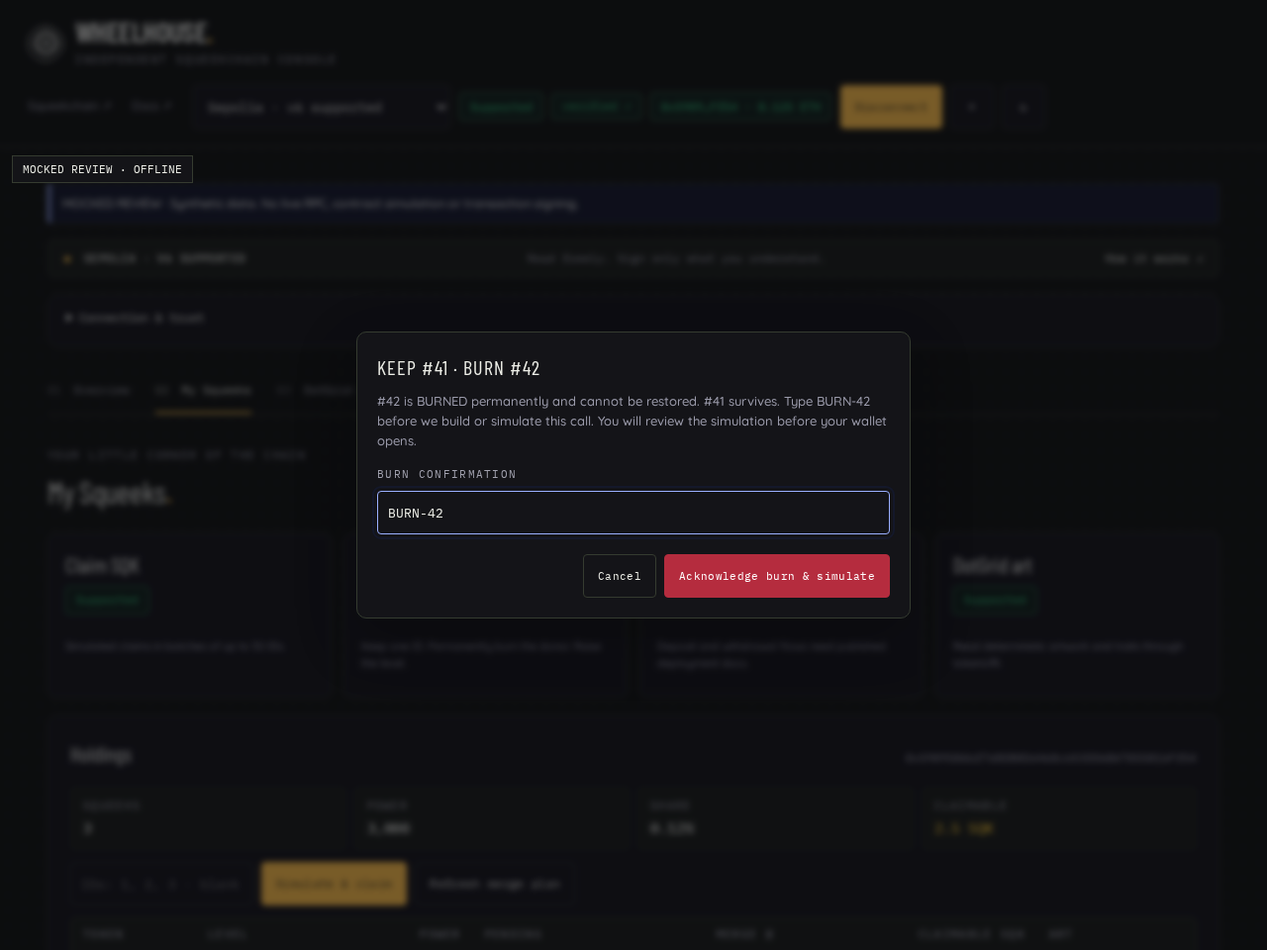
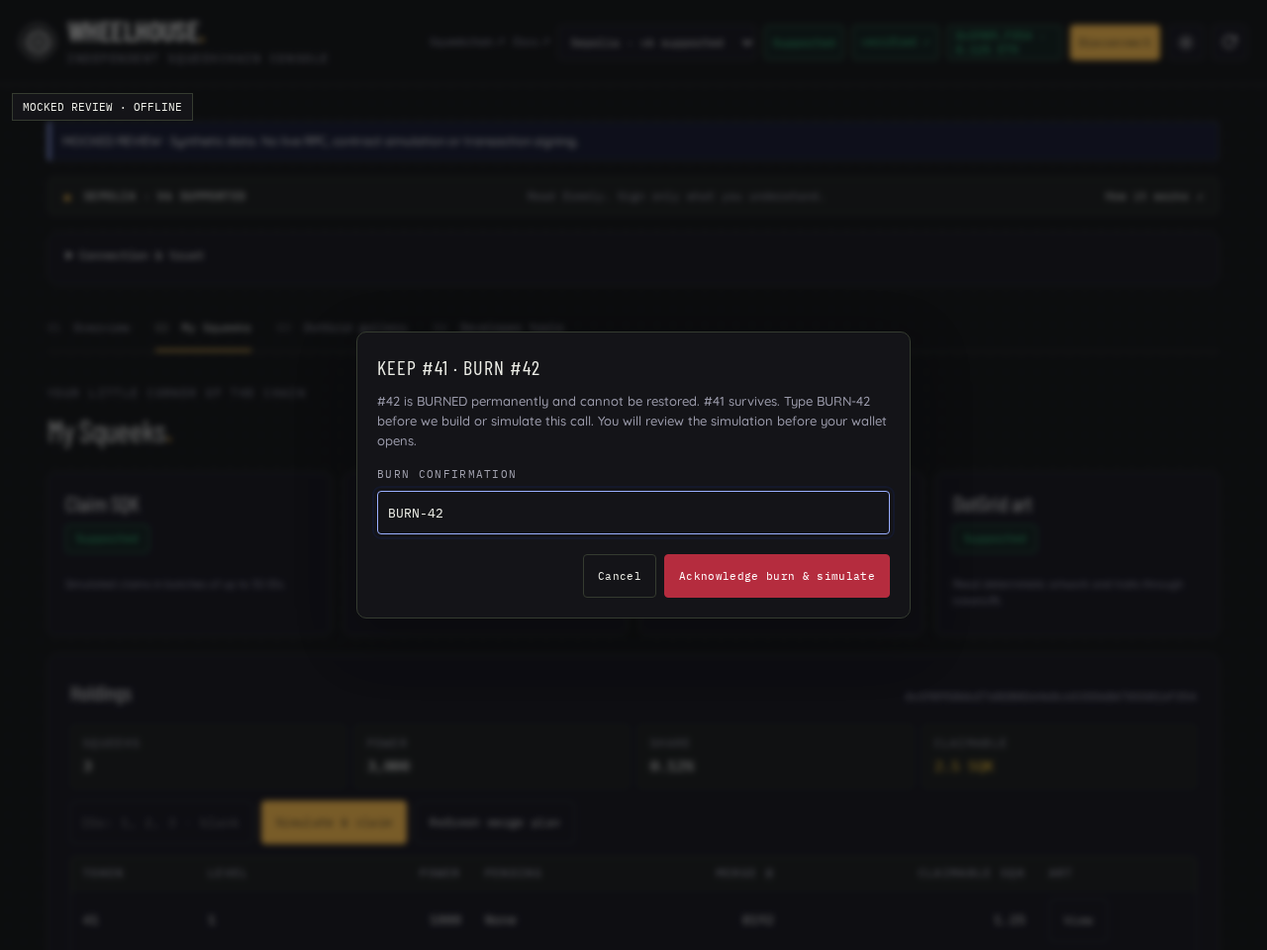
Polish compact header controls and wallet states

diff --git a/web/styles.css b/web/styles.css
@@ -522,3 +522,52 @@ footer > p.label { font-size: var(--sqk-caption-size); letter-spacing: .03em; }
   table[data-component="Table"] td:first-child { grid-column: 1 / -1; font-size: 20px; background: var(--sqk-bg-raised); }
   table[data-component="Table"] tbody tr:hover { background: var(--sqk-panel-alt); }
 }
+
+/* Header-only compact controls. Owner-action and dialog controls remain 44px. */
+.topbar { --header-size: 36px; gap: 16px; }
+.topbar .toolbar, .topbar .header-links, .topbar .header-badges,
+.topbar .wallet-controls, .topbar .wallet-control { gap: 8px; }
+.topbar :is(select, .chip, .btn) {
+  height: var(--header-size); min-height: var(--header-size);
+  border-radius: var(--sqk-r-ctrl); font-size: 11px; line-height: 14px;
+  padding: 2px 8px; vertical-align: middle;
+}
+.topbar .chip { align-items: center; display: inline-flex; white-space: normal; }
+.topbar #btn-theme, .topbar #btn-refresh {
+  width: var(--header-size); min-width: var(--header-size); height: var(--header-size);
+  padding: 0; font: 18px/1 var(--sqk-font-voice); flex-shrink: 0;
+}
+.topbar .header-link { margin-right: 0; font-size: 11px; }
+@media (min-width: 900px) {
+  .topbar { flex-wrap: nowrap; padding: 16px max(20px, calc((100vw - 1240px) / 2)); }
+  .topbar .brand { flex-shrink: 0; }
+  .topbar .toolbar { margin-left: auto; justify-content: flex-end; flex-wrap: nowrap; min-width: 0; }
+  .topbar .header-links { display: flex; flex-shrink: 0; }
+  .topbar .header-link { display: inline-flex; align-items: center; height: 36px; white-space: nowrap; }
+  .topbar #profile-select { width: 200px; max-width: 200px; min-width: 120px; flex: 0 1 200px; }
+  .topbar .header-badges { flex-wrap: nowrap; flex-shrink: 1; }
+  .topbar #profile-status, .topbar #verified-chip { flex-shrink: 0; max-width: 116px; }
+  .topbar #wallet-chip { flex: 0 0 116px; max-width: 116px; overflow-wrap: anywhere; }
+  .topbar .wallet-controls, .topbar .wallet-control { flex-shrink: 0; }
+}
+@media (min-width: 900px) and (max-width: 1199px) {
+  .topbar { padding: 12px 16px; gap: 12px; }
+  .topbar .brand { gap: 8px; }
+  .topbar .brand-name { font-size: 24px; }
+  .topbar .brand .label { display: none; }
+  .topbar .mark { width: 28px; height: 28px; }
+  .topbar .mark svg { width: 23px; height: 23px; }
+  .topbar #profile-select { width: 128px; max-width: 128px; min-width: 112px; flex-basis: 128px; }
+  .topbar .chip { padding-inline: 6px; }
+  .topbar #wallet-chip { flex-basis: 100px; max-width: 100px; }
+  .topbar #profile-status { max-width: 104px; }
+  .topbar #verified-chip { max-width: 104px; }
+  .topbar #btn-connect { max-width: 80px; }
+}
+@media (max-width: 760px) {
+  .topbar { gap: 12px; }
+  .topbar .header-badges { grid-template-columns: auto auto minmax(0, 1fr); }
+  .topbar .wallet-controls { grid-template-columns: minmax(0, 1fr) 36px 36px; }
+  .topbar .wallet-controls:has(#btn-refresh.hidden) { grid-template-columns: minmax(0, 1fr) 36px; }
+  .topbar #wallet-chip { overflow-wrap: anywhere; }
+}

diff --git a/web/app.js b/web/app.js
@@ -145,7 +145,14 @@ export function mount({ doc = document, win = window, adapterFactory, fetcher = 
   function applyTheme(theme) {
     theme = theme === "dark" ? "dark" : "light";
     doc.documentElement.dataset.theme = theme;
-    el.theme.textContent = theme === "dark" ? "☀" : "☾";
+    // Authored UI icon, not untrusted artwork/metadata SVG.
+    const icon = doc.createElementNS('http://www.w3.org/2000/svg', 'svg');
+    for (const [key, value] of Object.entries({ width: 18, height: 18, viewBox: '0 0 24 24', fill: 'none', stroke: 'currentColor', 'stroke-width': 1.8, 'stroke-linecap': 'round', 'stroke-linejoin': 'round', 'aria-hidden': true, focusable: false })) icon.setAttribute(key, value);
+    const path = doc.createElementNS('http://www.w3.org/2000/svg', 'path');
+    path.setAttribute('d', theme === 'dark'
+      ? 'M16 12a4 4 0 1 1-8 0 4 4 0 0 1 8 0ZM12 2v2m0 16v2M2 12h2m16 0h2M4.9 4.9l1.4 1.4m11.4 11.4 1.4 1.4M4.9 19.1l1.4-1.4M17.7 6.3l1.4-1.4'
+      : 'M20.9 13A9 9 0 0 1 11 3.1 9 9 0 1 0 20.9 13Z');
+    icon.append(path); el.theme.replaceChildren(icon);
     el.theme.setAttribute("aria-pressed", String(theme === "dark"));
     el.theme.title = theme === "dark" ? "Switch to light theme" : "Switch to dark theme";
     const surface = win.getComputedStyle?.(doc.documentElement)?.getPropertyValue("--sqk-bg").trim();
@@ -422,8 +429,8 @@ export function mount({ doc = document, win = window, adapterFactory, fetcher = 
 
   function renderWalletChip() {
     el.connect.textContent = state.account ? "Disconnect" : "Connect wallet";
-    el.walletChip.textContent = state.account ? short(state.account) : "not connected";
-    el.walletChip.className = `chip ${state.account ? "ok" : ""}`;
+    el.walletChip.textContent = state.account ? short(state.account) : "";
+    el.walletChip.className = `chip ${state.account ? "ok" : "hidden"}`;
     el.walletChip.title = state.account ?? "";
   }
 
@@ -502,7 +509,7 @@ export function mount({ doc = document, win = window, adapterFactory, fetcher = 
   }
 
   function renderWalletChipStats(status) {
-    if (!status) return;
+    if (!status || !state.account) return;
     el.walletChip.textContent = `${short(status.owner)} · ${num(status.ethBalance?.eth) === UNKNOWN ? UNKNOWN : `${Number(status.ethBalance.eth).toFixed(3)} ETH`}`;
   }
 

diff --git a/web/index.html b/web/index.html
@@ -32,11 +32,11 @@
         <select aria-label="Network deployment" id="profile-select" title="Deployment"></select>
         <div class="header-badges"><span class="chip ok" id="profile-status" role="status" aria-live="polite">Supported</span>
         <span class="chip" id="verified-chip" role="status" aria-live="polite">verifying…</span>
-        <span class="chip" id="wallet-chip">not connected</span></div>
+        <span class="chip hidden" id="wallet-chip"></span></div>
         <div class="wallet-controls"><div class="wallet-control">
         <button class="btn btn-primary" id="btn-connect">Connect wallet</button></div>
-        <button class="btn icon" id="btn-theme" type="button" title="Switch to dark theme" aria-label="Toggle theme" aria-pressed="false">☾</button>
-        <button class="btn icon" id="btn-refresh" type="button" title="Refresh" aria-label="Refresh">↻</button></div>
+        <button class="btn icon" id="btn-theme" type="button" title="Switch to dark theme" aria-label="Toggle theme" aria-pressed="false"><svg width="18" height="18" viewBox="0 0 24 24" fill="none" stroke="currentColor" stroke-width="1.8" stroke-linecap="round" stroke-linejoin="round" aria-hidden="true" focusable="false"><path d="M20.9 13A9 9 0 0 1 11 3.1 9 9 0 1 0 20.9 13Z" /></svg></button>
+        <button class="btn icon" id="btn-refresh" type="button" title="Refresh" aria-label="Refresh"><svg width="18" height="18" viewBox="0 0 24 24" fill="none" stroke="currentColor" stroke-width="1.8" stroke-linecap="round" stroke-linejoin="round" aria-hidden="true" focusable="false"><path d="M20 11a8 8 0 1 1-2.3-5.7L21 8M21 3v5h-5" /></svg></button></div>
       </div>
     </header>
 

diff --git a/docs/STATUS.md b/docs/STATUS.md
@@ -1,22 +1,22 @@
-# Wheelhouse — Phase 1 ready for review
+# Wheelhouse — header-polish follow-up ready for draft review
 
-**Date:** 2026-11-03 (Asia/Calcutta). **PR:** #2, open/draft. **Branch:** `arena/314fd2af-squeekchain-console`. App rebrand approved; repository name unchanged.
+**Date:** 2026-11-03 (Asia/Calcutta). **Base:** PR #2 merged at `22263e775461101b7d1dcb24933edd2ccd5a281f`. **Follow-up branch:** `arena/417b8688-squeekchain-console` (separate draft against main). App rebrand approved; repository name unchanged.
 
 ## Phase plan and pre-merge qualification gate
 
 **Phase 0: complete.** The opted-in **thewheel** live gate [run **41618128325**](https://github.com/CryptoExplor/Squeekchain-console/actions/runs/41618128325) passed on **`dd0afff7a88250d5d8aca88427ffe449c9e387c4`**. GitHub metadata independently confirms the exact head SHA, successful live-read step, public RPC probe, Chromium setup and artifact upload. [Qualification evidence](audit/live-qualification-run-41618128325.json) records the run, job and artifact IDs. Artifact contents were not downloaded; no specific block/hash/latency metrics are claimed.
 
-This qualifies **dd0afff**, not the subsequent screenshot-polish head. The user will rerun `run-live` on the new head before merge. **PR #2 remains open/draft**; manual browser review and final-head qualification are not waived.
+This qualifies **dd0afff**, not the new header-polish head. Before PR #2 merged, [run 41650460910](https://github.com/CryptoExplor/Squeekchain-console/actions/runs/41650460910) also passed on its final source `b26f7f94fb0c28601408f4fade93f87bc2f84b1f`. Neither historical pass qualifies this follow-up; manual browser review and final-head qualification are not waived.
 
-**Phase 1 implementation is ready for review on the same branch and PR #2**: Wheelhouse branding, the light design system and safety fixes. Preserve the existing architecture and every approved safety rule; do not restart or create another phase PR.
+**Phase 1 merged via PR #2.** The user requested a separate header-polish draft against main. Preserve the existing architecture and every approved safety rule; no restart or direct-main push.
 
 | Phase 1 work | Current status |
 |---|---|
 | First task — browser RPC availability/fallback and diagnostics | Implemented in `c128c83d4171bece61d0226f0690abb366110c2f`; offline Node and bundled Chromium regressions pass. Typed cooldown/transport errors fail over, including browser fetch/CORS-style TypeErrors; cause traversal retains trust hard stops. Tool errors expose redacted endpoint, method and cause diagnostics. This is not a verified diagnosis of run `41606508624`. |
-| Wheelhouse branding and light design system | Continued with a consolidated neutral/gold/blue token palette, independent-console wordmark subtitle, readable 11px operational captions, semantic primary/danger controls, accessible theme state and matching browser chrome colors. Twenty-five mocked Chromium checks pass, including the 16-state review gallery, light/dark component contrast and focus; final human browser review is pending. See [design contract](DESIGN.md). |
+| Wheelhouse branding and light design system | Continued with a consolidated neutral/gold/blue token palette, independent-console wordmark subtitle, readable 11px operational captions, semantic primary/danger controls, accessible theme state and matching browser chrome colors. Thirty-five mocked Chromium checks pass, including the 24-state review gallery, light/dark component contrast and focus; final human browser review is pending. See [design contract](DESIGN.md). |
 | Approved safety fixes | Existing capability gates, same-block graph/two-peer verification, explicit BURN confirmation, fresh simulation and wallet-only signing, profile cancellation/isolation, persistent Activity, API hint validation and key isolation remain unchanged. |
 
-**After this review polish**, the user will re-trigger `run-live` for the intended final PR head and manually check the app in their browser before merge. The pre-merge live gate must pass; offline tests, SDK probes and manual review do not substitute for that gate. The agent will not retry `test:live` in the sandbox or apply the label. PR #2 remains open/draft/WIP. After each push, report the commit, changes and offline results.
+**After this review polish**, the user will re-trigger `run-live` for the intended final PR head and manually check the app in their browser before merge. The pre-merge live gate must pass; offline tests, SDK probes and manual review do not substitute for that gate. The agent will not retry `test:live` in the sandbox or apply the label. The header follow-up remains draft; PR #2 is already merged. After each push, report the commit, changes and offline results.
 
 ### Historical live evidence (not qualification)
 
@@ -24,24 +24,31 @@ The historical real-browser `npm run test:live` check was attempted once after t
 
 Evidence: [`audit/live-qualification-2026-11-02.json`](audit/live-qualification-2026-11-02.json). The earlier local-run plan is now superseded by the explicit-opt-in **thewheel** CI gate below. The successful dd0afff CI run above now completes Phase 0. Retain its qualification artifacts; a later head requires its own pre-merge rerun. The historical jsdom smoke failure is not retried here. Public RPC availability is not a Phase 1 blocker.
 
+## Header-only follow-up
+
+- Disconnected wallet chip hidden; connected address/balance retained.
+- All header controls/badges are 36px with shared radius, 11px/14px text and 8px gaps. Body action/dialog controls remain 44px. Theme/refresh are 36×36px, with 18px authored SVGs and existing labels/focus rings.
+- Desktop ≥900px keeps brand left and controls right on one row, with Squeekchain/Docs links before the select. Mobile 390px stays stacked. Supported and verified remain separate. Tests cover 900/1024px connected/disconnected and read-only/unverified badge clipping.
+- No SDK, trust, capability, signing, simulation or keeper change; no live workflow dispatch/label operation.
+
 ## Screenshot review polish
 
-- At 390px the profile select is full width, the badges share one row, and wallet/theme/refresh controls share an aligned row; theme/refresh retain 44px icon buttons and accessible labels. The layout also passes the existing 320px overflow checks.
+- At 390px the profile select is full width, the badges share one row, and wallet/theme/refresh controls share an aligned row; theme/refresh use 36px icon buttons with 18px SVGs and accessible labels. The layout also passes the existing 320px overflow checks.
 - The hero and introductory eyebrow appear only on Overview. Task tabs and the not-deployed Mainnet view do not repeat the hero. Hero paragraph copy wraps naturally, without hard `<br>` elements.
 - Below 600px, each holdings row becomes a labelled token card: all seven cells remain visible without horizontal clipping. Desktop keeps the table with scoped headers and explicit table/row/cell semantics.
 - Mainnet has one Not deployed badge and one deployment-status panel; the redundant verification badge, network strip, hero and repeated banner are hidden. The separate prior-wallet-request warning is retained when applicable; no action capability changes.
-- The screenshot-only MOCKED REVIEW ribbon is placed below the header, not over the wordmark. All 16 light/dark desktop/mobile screenshots are regenerated with geometry, card-cell visibility, one-badge/one-panel and hero-visibility assertions.
+- The screenshot-only MOCKED REVIEW ribbon is placed below the header, not over the wordmark. All 16 light/dark desktop/mobile screenshots plus eight connected/disconnected header crops are regenerated with geometry, card-cell visibility, one-badge/one-panel and hero-visibility assertions.
 
 ## Phase 1 finish checklist
 
 - **Shared components:** `web/components.js` exports Panel, Stat, Table, TokenCard, ConfirmDialog, Toast and Skeleton. Existing static markup is enhanced in place; no framework, backend or new authority over capabilities. Panel busy state preserves known readings; Skeleton visibly retains Unknown and respects reduced motion. Tables have captions/scoped headers; TokenCard is a keyboard-operable button and renders artwork as an isolated image. The shared dialog preserves the existing focus trap/restore/cancellation lifecycle and Merge's typed BURN-<id> before call construction/simulation, then review/fresh simulation/wallet signing.
 - **Unknown, never invented zero:** absent/nonfinite/unavailable values display literal **Unknown** in network, wallet, table and telemetry views. Known zero is still a valid reading. A missing paused flag is not shown as “no.” v6 Power and v9 Deposited are distinct fields, not a fallback pretending an absent power value is zero. Failed wallet refresh clears stale holdings/actions.
 - **Shell:** Wheelhouse wordmark in header/footer, profile select with separate Supported / Read-only · unverified / Not deployed badge, light-default saved theme toggle, and explicit **independent community console · not affiliated with Squeekchain** footer. Live verification status remains separate from profile support status.
-- **Review gallery:** [16 committed mocked Chromium screenshots](screenshots/README.md): light/dark × 1280px/390px × Overview/Wallet/Merge dialog/Mainnet-not-deployed. Every capture uses synthetic fixtures; no live qualification, contract simulation, signing or real wallet submission. The PR description links the gallery and individual images. Regenerate only with explicit `UPDATE_SCREENSHOTS=1 npm run test:browser`; ordinary CI saves captures to ignored test output.
-- **JavaScript size:** **146,982 gzip bytes (147.0 kB / 143.5 KiB)**, summed across all five independently gzipped dist JS files using Node's default gzip level. Under the **200,000-byte** budget, now checked at build time. [Per-file report](audit/phase1-js-size.json); `dist/` remains ignored.
-- **Final offline validation:** all **11** `npm test` scripts, build/static parity/size budget, all **25** mocked Chromium tests, and `git diff --check` pass. Wire request budgets remain **22 cold / 12 warm / 15 wallet**.
+- **Review gallery:** [24 committed mocked Chromium screenshots](screenshots/README.md): light/dark × 1280px/390px × Overview/Wallet/Merge dialog/Mainnet-not-deployed, plus connected/disconnected header crops. Every capture uses synthetic fixtures; no live qualification, contract simulation, signing or real wallet submission. The PR description links the gallery and individual images. Regenerate only with explicit `UPDATE_SCREENSHOTS=1 npm run test:browser`; ordinary CI saves captures to ignored test output.
+- **JavaScript size:** **147,359 gzip bytes (147.4 kB / 143.9 KiB)**, summed across all five independently gzipped dist JS files using Node's default gzip level. Under the **200,000-byte** budget, now checked at build time. [Per-file report](audit/phase1-js-size.json); `dist/` remains ignored.
+- **Final offline validation:** all **11** `npm test` scripts, build/static parity/size budget, all **35** mocked Chromium tests, and `git diff --check` pass. Wire request budgets remain **22 cold / 12 warm / 15 wallet**.
 
-**Phase 1 ready for review**, not approval to merge. PR #2 remains open/draft. All approved safety rules and the opt-in live workflow are unchanged. No sandbox `test:live`, label operation, keeper activation or transaction submission was performed. User-triggered live qualification at the intended final head and manual browser review are still required before merge; Phase 0 is complete based on the qualified dd0afff head.
+**Header follow-up ready for draft review**, not approval to merge. PR #2 is already merged. All approved safety rules and the opt-in live workflow are unchanged. No sandbox `test:live`, label operation, keeper activation or transaction submission was performed. User-triggered live qualification at the intended final head and manual browser review are still required before merge; Phase 0 is complete based on the qualified dd0afff head.
 
 ## Public RPC availability follow-up
 
@@ -53,7 +60,7 @@ Public endpoints change often; configured roles are availability preferences, no
 - Run **`npm run rpc:probe`** locally for a per-endpoint table: chain ID, a head-minus-12 block/hash, the mining EIP-1967 implementation slot at that block, and an inclusive 10k-block NFT Transfer log query. Requests time out after 15 seconds. Each capability reports independently; a log failure does not disqualify an otherwise healthy snapshot/state peer. This Node diagnostic does not test browser CORS, peer agreement or the full graph and is **not Phase 0 qualification**.
 - Offline regression coverage uses the reported `4444: pruned history unavailable`, `historical state unavailable`, `range too large`, `35: chain is not available on free plan` and `forbidden` payloads; asserts unchanged-range endpoint failover before chunk shrinking, custom/wallet behavior and trust-stop behavior.
 
-**The replacement RPC list passed the real-browser gate on dd0afff in run 41618128325.** The screenshot-polish head still needs the user-triggered rerun before merge. The old failed evidence is retained, not relabeled as a pass.
+**The replacement RPC list passed the real-browser gate on dd0afff in run 41618128325.** The new header-polish head needs its own user-triggered rerun before merge. The old failed evidence is retained, not relabeled as a pass.
 
 ## User-reported partial live results and follow-ups
 
@@ -72,7 +79,7 @@ The v6 panel now displays its live settlement frontier and a snapshot-scoped no-
 
 README documents the linux-arm64 Chromium CDN 403 workaround: use x64 or an already-installed supported local Chrome via **`PLAYWRIGHT_CHROMIUM_CHANNEL=chrome npm run test:live`** (`channel: 'chrome'`), or the existing executable-path override. The Chrome-channel config is provided; local Chrome itself was not available/tested in this sandbox.
 
-**Phase 0 is complete: offline audit plus live qualification on dd0afff in run 41618128325.** PR #2 stays open/draft during screenshot-review polish and the new-head rerun.
+**Phase 0 is complete: offline audit plus live qualification on dd0afff in run 41618128325.** PR #2 is merged; the separate header follow-up stays draft pending review and its own final-head rerun.
 
 ## Opt-in CI live gate (passed on dd0afff; user re-triggers for the polish head)
 
@@ -80,7 +87,7 @@ Added **thewheel** (`.github/workflows/live.yml`), triggered by **`workflow_disp
 
 No sandbox `test:live` retry was performed for this change. Its last blocked attempt is preserved in [`audit/live-qualification-2026-11-03.json`](audit/live-qualification-2026-11-03.json); the earlier user-reported SDK verification passed at block **12050470** in **1.6 seconds**, frontier **1973**, but did not include a full Playwright live-suite pass. The later successful CI run 41618128325 supplies that qualification.
 
-The workflow can now run directly from **PR #2 by adding `run-live`**; no default-branch bootstrap or WIP merge is required for that trigger. `actions/checkout` pins `github.event.pull_request.head.sha` on PR events (selected event SHA on dispatch). Both the initial JSON and live reporter use **`LIVE_SOURCE_COMMIT`** set to that exact head SHA, not the PR merge-commit `GITHUB_SHA`. If the explicit source variable is absent, the reporter uses checked-out HEAD (or unknown if Git is unavailable), never the synthetic merge-commit `GITHUB_SHA`. Read-only permissions and concurrency group **`thewheel-live-sepolia`** are unchanged; **no `pull_request_target`** or secrets are used.
+The workflow can run directly from **the follow-up PR by adding `run-live`**; no default-branch bootstrap or WIP merge is required for that trigger. `actions/checkout` pins `github.event.pull_request.head.sha` on PR events (selected event SHA on dispatch). Both the initial JSON and live reporter use **`LIVE_SOURCE_COMMIT`** set to that exact head SHA, not the PR merge-commit `GITHUB_SHA`. If the explicit source variable is absent, the reporter uses checked-out HEAD (or unknown if Git is unavailable), never the synthetic merge-commit `GITHUB_SHA`. Read-only permissions and concurrency group **`thewheel-live-sepolia`** are unchanged; **no `pull_request_target`** or secrets are used.
 
 The user triggered the successful dd0afff run and will remove/re-add the label for the polish head; the agent has not labeled/dispatched or rerun live tests. **Qualification passed for dd0afff, and the intended final PR head must be requalified before merge**; a skipped job is not qualification. No automatic phase transition is performed by the workflow. Actions-tab `workflow_dispatch` remains available only once the workflow exists on the default branch.
 
@@ -100,7 +107,7 @@ The live assertions remain unchanged; the unmocked test now passively attaches *
 
 Only known fetch-failure TypeError messages (`Failed to fetch`, `Load failed`, `NetworkError when attempting to fetch resource.`, Node `fetch failed`, or `Network request failed`) qualify as transport availability. Other TypeErrors, including `Cannot read properties of undefined`, stop immediately through nested viem/HTTP/availability wrappers; they cannot trigger peer fallback, chain-ID re-probes or log-range shrinking. Snapshot peer selection and wallet probes also preserve this stop. Diagnostics label these as possible programming errors, not CORS failures, without serializing arbitrary provider messages.
 
-The offline first-endpoint regression injects the exact programming TypeError through the real viem HTTP transport, verifies the original cause survives, and asserts no next endpoint or identity re-probe is called. Existing cooldown and recognized fetch-failure fallback tests remain in place. Live qualification subsequently passed on dd0afff; manual review and a live rerun for the new polish head remain pre-merge requirements.
+The offline first-endpoint regression injects the exact programming TypeError through the real viem HTTP transport, verifies the original cause survives, and asserts no next endpoint or identity re-probe is called. Existing cooldown and recognized fetch-failure fallback tests remain in place. Live qualification subsequently passed on dd0afff; manual review and a live rerun for the new header-polish head remain pre-merge requirements.
 
 ## Implemented in place
 
@@ -119,10 +126,10 @@ The offline first-endpoint regression injects the exact programming TypeError th
 ## Validation
 
 - `npm test`: passes UI/telemetry/modal regressions, published-record characterization/local ABI parity, stdio tool listing, same-block identity mismatch cases, role-based RPC availability/failover/backoff and probe checks, paginated API hint isolation and onchain confirmation, actual wire request budgets, chain/cache invalidation, IndexedDB filtered/incremental/reorg discovery and Activity persistence/reverts/unavailability.
-- `npm run test:browser`: **25 passing mocked Chromium tests**: light/saved theme and responsive layout; pending-RPC switch; three rapid switches; pending-simulation switch; late broadcast persistence/receipt tracking across a switch and reload; live-derived v6 frontier messaging/advancement/failure/switch/mobile behavior; bundled browser-wire state cooldown/TypeError failover; light/dark component contrast, readable captions, theme metadata/state and focus; 16 screenshot states; TokenCard keyboard/isolated-image/dialog focus behavior. RPC/adapters are mocked in this suite; it is not live qualification.
+- `npm run test:browser`: **35 passing mocked Chromium tests**: light/saved theme and responsive layout; pending-RPC switch; three rapid switches; pending-simulation switch; late broadcast persistence/receipt tracking across a switch and reload; live-derived v6 frontier messaging/advancement/failure/switch/mobile behavior; bundled browser-wire state cooldown/TypeError failover; light/dark component contrast, readable captions, theme metadata/state and focus; 24 screenshot states and compact-desktop header regressions; TokenCard keyboard/isolated-image/dialog focus behavior. RPC/adapters are mocked in this suite; it is not live qualification.
 - `npm run build`: passes; `dist/` output parity is a build check, not tracked generated content.
 - CI includes `npx playwright install --with-deps chromium`. The sandbox used an npm-distributed Chromium with bundled system libraries because browser download hosts are restricted; that temporary package/binary is not a project dependency or committed artifact.
-- `npm run test:live`: the **historical sandbox attempt failed / was unavailable**; the full suite subsequently **passed opted-in CI run 41618128325 on dd0afff**. That is the Phase 0 evidence; the new polish head awaits its own rerun.
+- `npm run test:live`: the **historical sandbox attempt failed / was unavailable**; the full suite subsequently **passed opted-in CI run 41618128325 on dd0afff**. That is the Phase 0 evidence; the new header-polish head awaits its own rerun.
 
 ## Sources and historical evidence
 
@@ -139,4 +146,4 @@ Complete remote/local ABI byte-for-byte parity and a browser comparison with the
 
 ## Deferred / not claimed
 
-No mainnet deployment or v9 owner integration; no real signed transaction test; no closed-tab alerts, remote MCP, OG/alert Worker/D1, EIP-6963/WalletConnect integration or paid service provisioning. Official API/Genesis unavailability remains Unknown, including `launch_unconfigured`. No repository rename or PR closure. PR #2 stays WIP pending manual review and opted-in live qualification of the new polish head.
+No mainnet deployment or v9 owner integration; no real signed transaction test; no closed-tab alerts, remote MCP, OG/alert Worker/D1, EIP-6963/WalletConnect integration or paid service provisioning. Official API/Genesis unavailability remains Unknown, including `launch_unconfigured`. No repository rename or follow-up PR merge/deployment. PR #2 was merged at user request; the new header draft awaits manual review and opted-in live qualification of its intended final head.

diff --git a/README.md b/README.md
@@ -2,11 +2,11 @@
 
 A static, browser-first Squeekchain holder console. The app is branded **Wheelhouse**; the GitHub repository remains **CryptoExplor/Squeekchain-console**.
 
-**Phase 1 screenshot polish ready for review — Phase 0 complete.** [Live run 41618128325](https://github.com/CryptoExplor/Squeekchain-console/actions/runs/41618128325) passed on `dd0afff`; the new polish head awaits the user-triggered pre-merge rerun. PR #2 remains draft. Offline tests and browser layout/race tests are not proof of public RPC availability, current contract identities, or transaction success. See [status and validation](docs/STATUS.md).
+**Header-polish follow-up ready for draft review — Phase 1 merged in [PR #2](https://github.com/CryptoExplor/Squeekchain-console/pull/2).** Phase 0 remains complete from [live run 41618128325](https://github.com/CryptoExplor/Squeekchain-console/actions/runs/41618128325) on `dd0afff`. The new header head is not live-qualified. Offline tests and browser layout/race tests are not proof of public RPC availability, current contract identities, or transaction success. See [status and validation](docs/STATUS.md).
 
 The light-first Wheelhouse design uses local Barlow Condensed, Quicksand and IBM Plex Mono, warm neutral surfaces and gold/blue accents. It is an independent community console, not the official dApp. See the [design contract and offline checks](docs/DESIGN.md).
 
-[Review the 16 mocked screenshots](docs/screenshots/README.md): Overview, Wallet, Merge dialog and not-deployed Mainnet, each in light/dark at 1280px/390px. These are synthetic review fixtures, not live qualification. Shared DOM components live in `web/components.js`; missing values read **Unknown**, never an invented zero. All dist JavaScript totals **146,982 bytes gzipped**, below the build-enforced 200,000-byte budget ([breakdown](docs/audit/phase1-js-size.json)).
+[Review the 24 mocked screenshots](docs/screenshots/README.md): Overview, Wallet, Merge dialog and not-deployed Mainnet, plus connected/disconnected header crops, each in light/dark at 1280px/390px. These are synthetic review fixtures, not live qualification. Shared DOM components live in `web/components.js`; missing values read **Unknown**, never an invented zero. All dist JavaScript totals **147,359 bytes gzipped**, below the build-enforced 200,000-byte budget ([breakdown](docs/audit/phase1-js-size.json)).
 
 ## Deployments and safety
 
@@ -38,7 +38,7 @@ npm run web                    # build + local static file server, port 5173
 npm run rpc:probe              # endpoint capability table; diagnostic, not live qualification
 npm test                       # deterministic offline regressions, safety, RPC budget, discovery and Activity
 npx playwright install --with-deps chromium
-npm run test:browser            # real Chromium, injected/offline data: components, profile races, persistence, and the 16 mocked screenshot states
+npm run test:browser            # real Chromium, injected/offline data: components, profile races, persistence, and the 24 mocked screenshot states
 npm run test:live               # real Chromium + public Sepolia RPCs; no RPC mocks or signatures
 ```
 
@@ -55,11 +55,11 @@ The live test records public CORS RPC availability, two-peer block agreement and
 
 It uses read-only repository permissions and no configured secrets, wallet, keeper or signing variables. Opted-in runs are serialized under the same concurrency group to avoid hammering public RPCs. Test failures are not ignored. An always-run artifact upload retains the HTML Playwright report, screenshots/traces/test attachments and **`live-qualification/live-qualification.json`**, including failure evidence. A not-run JSON is seeded before dependency/browser setup so a later setup or probe failure is not mistaken for a pass. The dedicated live reporter rejects empty/skipped/incomplete suites as qualification passes; ordinary browser tests remain separate.
 
-**At the end of Phase 1, the user re-triggers the pre-merge gate from PR #2:** remove/re-add the **`run-live`** label and manually review the app in their browser before merge. The job checks out the event's exact **PR head SHA**, not GitHub's synthetic merge commit. `LIVE_SOURCE_COMMIT` carries that same SHA into both the initial and final qualification JSON. For `workflow_dispatch`, the checkout/evidence use the selected ref's event SHA. No `pull_request_target`, configured secrets or write permissions are used.
+**For the intended final follow-up head, the user re-triggers the pre-merge gate:** remove/re-add the **`run-live`** label and manually review the app in their browser before merge. The job checks out the event's exact **PR head SHA**, not GitHub's synthetic merge commit. `LIVE_SOURCE_COMMIT` carries that same SHA into both the initial and final qualification JSON. For `workflow_dispatch`, the checkout/evidence use the selected ref's event SHA. No `pull_request_target`, configured secrets or write permissions are used.
 
 Dispatch from the Actions tab still requires the workflow on the default branch; the label trigger avoids that bootstrap requirement. I.e. no merge of this WIP PR is needed to run the label gate. Adding subsequent commits does not rerun live RPC tests automatically: remove and re-add `run-live` to qualify a newer head.
 
-**Phase 0 is complete**, supported by the offline audit and [successful live run 41618128325 on dd0afff](docs/audit/live-qualification-run-41618128325.json). The screenshot-polish head needs a new user-triggered live pass. Before merge, the opted-in live job must pass for the intended final source SHA. A skipped job, successful SDK call, endpoint probe, offline test, or stale JSON artifact is not a substitute. The workflow does not write phase status back to the repository or enable signing/keeper behavior.
+**Phase 0 is complete**, supported by the offline audit and [successful live run 41618128325 on dd0afff](docs/audit/live-qualification-run-41618128325.json). The header-polish head needs its own user-triggered live pass. Before merge, the opted-in live job must pass for the intended final source SHA. A skipped job, successful SDK call, endpoint probe, offline test, or stale JSON artifact is not a substitute. The workflow does not write phase status back to the repository or enable signing/keeper behavior.
 
 ### Live failure diagnostics
 

diff --git a/docs/DESIGN.md b/docs/DESIGN.md
@@ -1,4 +1,4 @@
-# Wheelhouse design contract — Phase 1 ready for review
+# Wheelhouse design contract — header-polish follow-up
 
 Wheelhouse is the independent, browser-first Squeekchain holder console. The repository remains **Squeekchain-console**; the Cloudflare Pages project and opt-in live workflow remain **thewheel**. No repository/project rename or official affiliation is implied.
 
@@ -12,7 +12,7 @@ The [official homepage](https://squeekchain.com/) was re-read on 2026-11-03. Its
 - **Type:** local Barlow Condensed for editorial headings, Quicksand for body/voice, IBM Plex Mono for labels/data. No CDN font dependency. Operational captions use a shared 11px token rather than 7–10px overrides; numbers retain tabular figures.
 - **Surfaces:** warm light `#fafaf7`, white panels, ink `#292b26`; dark surface `#10120f`, panel `#141418`, ink `#edeee7`. The original editorial spacing, wheel artwork and responsive layout remain intact.
 - **Accents:** gold primary controls with dark labels; blue links/focus. Semantic primary-fill/hover/on-primary tokens keep controls consistent. Destructive controls use a separate deep-red fill/hover with white labels in both themes, rather than reusing the brighter dark-theme error-text color.
-- **Accessibility:** 44px controls, visible 3px keyboard focus, reduced-motion handling, status text beyond color, mobile-visible wallet/verification, skip link and existing modal focus trap/restore. The palette test checks selected normal-text pairs at **at least 4.5:1**, including primary/danger hover and status chips. This is not a blanket WCAG certification.
+- **Accessibility:** 36px header controls (explicit follow-up requirement), 44px action/dialog controls, visible 3px keyboard focus, reduced-motion handling, status text beyond color, mobile-visible wallet/verification, skip link and existing modal focus trap/restore. The palette test checks selected normal-text pairs at **at least 4.5:1**, including primary/danger hover and status chips. This is not a blanket WCAG certification.
 
 ## Shared components
 
@@ -32,7 +32,7 @@ The header keeps live verification separate from the profile's support badge. Bo
 
 ## Offline acceptance
 
-[The committed review gallery](screenshots/README.md) contains 16 light/dark × desktop/mobile × Overview/Wallet/Merge/Mainnet captures from the mocked suite.
+[The committed review gallery](screenshots/README.md) contains 24 captures: 16 light/dark × desktop/mobile × Overview/Wallet/Merge/Mainnet views plus eight connected/disconnected header crops from the mocked suite.
 
 `npm run test:browser` uses Chromium with external requests blocked or explicitly mocked. It verifies light/saved theme behavior, 320/390/768/1280px layout without page overflow, wallet/verification visibility, keyboard navigation, profile cancellation and Activity persistence. The design-system test measures computed text/background contrast for secondary text, captions, status chips, primary and danger controls in both themes, checks theme metadata/state, and exercises keyboard focus. These checks are not live RPC qualification.
 
@@ -40,12 +40,16 @@ The header keeps live verification separate from the profile's support badge. Bo
 
 ## Distribution budget
 
-`npm run build` checks static parity (including the components module) and writes ignored `dist/js-size.json`. It independently gzips every dist JS response with Node's default gzip level and sums the result: **146,982 bytes**, under the **200,000-byte** budget. The build fails if this budget is reached/exceeded. Fonts/CSS are not counted as JavaScript. See the committed [per-file report](audit/phase1-js-size.json).
+`npm run build` checks static parity (including the components module) and writes ignored `dist/js-size.json`. It independently gzips every dist JS response with Node's default gzip level and sums the result: **147,359 bytes**, under the **200,000-byte** budget. The build fails if this budget is reached/exceeded. Fonts/CSS are not counted as JavaScript. See the committed [per-file report](audit/phase1-js-size.json).
 
 ## Pre-merge review (polish-head rerun pending)
 
-Phase 0 qualification passed in run 41618128325 on dd0afff. After screenshot polish, the user will review the actual app in their browser and re-trigger **run-live** on the intended final PR head. Keep PR #2 open/draft until review and pre-merge live qualification. No sandbox live retry or automatic gate trigger is part of design work.
+Phase 0 qualification passed in run 41618128325 on dd0afff. PR #2 subsequently merged at `22263e775461101b7d1dcb24933edd2ccd5a281f`; this header follow-up is a separate draft against main. It is not live-qualified. The user reviews the actual app and triggers **run-live** on the intended final head before merge. No sandbox live retry or automatic gate trigger is part of design work.
 
 ## Screenshot-review layout refinements
 
 The profile select occupies a full mobile row; badges share the next row, then wallet/theme/refresh controls align on a single row. Only Overview shows the full hero; body copy wraps naturally. Mainnet keeps one support badge and one status panel, without repeating the hero or deployment message. Mobile holdings below 600px use labelled token cards derived from the same table cells, not a second data/action source. Screenshot-only review ribbons sit below the header. These are presentation changes only; transaction/cancellation/verification rules remain intact.
+
+## Header-only follow-up
+
+Disconnected wallets have no redundant status chip; connected wallets retain address/balance. Select, badges and wallet buttons are 36px tall with a common radius, 11px text/14px line height and 8px group gaps. Theme/refresh are 36×36px with authored 18px SVGs, accessible labels and the existing visible focus rings. At widths ≥900px the brand and right-aligned controls share one row, with Squeekchain/Docs before the select; at 390px the stacked layout remains. The support and verification badges remain separate. Compact-desktop read-only/unverified text is checked for clipping. Body/action/dialog controls and all safety paths are unchanged.

diff --git a/docs/screenshots/README.md b/docs/screenshots/README.md
@@ -2,13 +2,15 @@
 
 **Synthetic fixtures only — not live qualification.** The captures use the actual Wheelhouse DOM, components, CSS and locally bundled fonts. Network/SDK/wallet adapters are injected by `test/review-fixture.mjs`. External requests are blocked. No contract simulation, wallet submission or signature occurs; merge images show the typed acknowledgement but stop before simulation. “Verified” in these images is fixture data, not a live attestation.
 
-All 16 states were regenerated after the mobile/header/table/Mainnet review polish. Header control alignment, hero visibility, labelled card cells below 600px, single Mainnet status and review-ribbon position are asserted. All 16 states are tested by `test/screenshots.spec.mjs`. Light and dark are explicit choices; desktop viewport is **1280 × 960**, mobile is **390 × 844**, device scale 1. Overview, Wallet and Mainnet use full-page images; Merge uses a viewport image to keep the focused dialog readable. Animations are disabled, and local fonts finish loading before capture. Wallet token #87 deliberately has Unknown fields to show unavailable data, rather than fabricated zeroes.
+All 16 full-view states were regenerated after the header-only follow-up, alongside eight new header crops. Header controls are 36px with 8px gaps and theme/refresh glyphs are 18px. Header control alignment, hero visibility, labelled card cells below 600px, single Mainnet status and review-ribbon position are asserted. All 24 states are tested by `test/screenshots.spec.mjs`. Light and dark are explicit choices; desktop viewport is **1280 × 960**, mobile is **390 × 844**, device scale 1. Header-only captures use the same widths with a 900px viewport height and crop to the header. Overview, Wallet and Mainnet use full-page images; Merge uses a viewport image to keep the focused dialog readable. Animations are disabled, and local fonts finish loading before capture. Wallet token #87 deliberately has Unknown fields to show unavailable data, rather than fabricated zeroes.
 
 | View | Light · 1280px | Dark · 1280px | Light · 390px | Dark · 390px |
 |---|---|---|---|---|
 | Overview | [PNG](overview-light-1280.png) | [PNG](overview-dark-1280.png) | [PNG](overview-light-390.png) | [PNG](overview-dark-390.png) |
 | Wallet / My Squeeks | [PNG](wallet-light-1280.png) | [PNG](wallet-dark-1280.png) | [PNG](wallet-light-390.png) | [PNG](wallet-dark-390.png) |
 | Merge · typed BURN-42 | [PNG](merge-light-1280.png) | [PNG](merge-dark-1280.png) | [PNG](merge-light-390.png) | [PNG](merge-dark-390.png) |
+| Header · disconnected | [PNG](header-disconnected-light-1280.png) | [PNG](header-disconnected-dark-1280.png) | [PNG](header-disconnected-light-390.png) | [PNG](header-disconnected-dark-390.png) |
+| Header · connected | [PNG](header-connected-light-1280.png) | [PNG](header-connected-dark-1280.png) | [PNG](header-connected-light-390.png) | [PNG](header-connected-dark-390.png) |
 | Mainnet · not deployed | [PNG](mainnet-light-1280.png) | [PNG](mainnet-dark-1280.png) | [PNG](mainnet-light-390.png) | [PNG](mainnet-dark-390.png) |
 
 To explicitly regenerate tracked images on a supported local Chromium installation:
@@ -17,4 +19,4 @@ To explicitly regenerate tracked images on a supported local Chromium installati
 UPDATE_SCREENSHOTS=1 npm run test:browser
 ```
 
-Ordinary `npm run test:browser` exercises/captures the same states under `test-results/`, **without overwriting these tracked review files**. The images are review evidence, not cross-platform pixel-diff baselines. Additional offline tests cover theme/contrast, cancellation/profile races, Activity persistence, RPC fallback, the shared TokenCard keyboard interaction and isolated artwork image, and typed burn guards. Phase 0 live qualification passed separately on dd0afff in run 41618128325; these images remain mocked. User manual browser review and an opted-in `run-live` rerun for the polish head remain required before merge; no sandbox `test:live` is part of this capture process.
+Ordinary `npm run test:browser` exercises/captures the same states under `test-results/`, **without overwriting these tracked review files**. The images are review evidence, not cross-platform pixel-diff baselines. Additional offline tests cover theme/contrast, cancellation/profile races, Activity persistence, RPC fallback, the shared TokenCard keyboard interaction and isolated artwork image, and typed burn guards. Phase 0 live qualification passed separately on dd0afff in run 41618128325; these images remain mocked. PR #2 is merged; user manual browser review and an opted-in `run-live` rerun for the new header follow-up head remain required before its merge; no sandbox `test:live` is part of this capture process.
